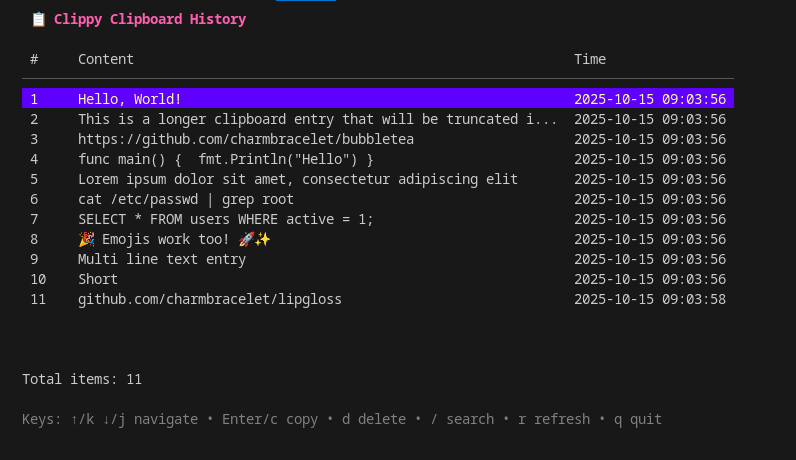
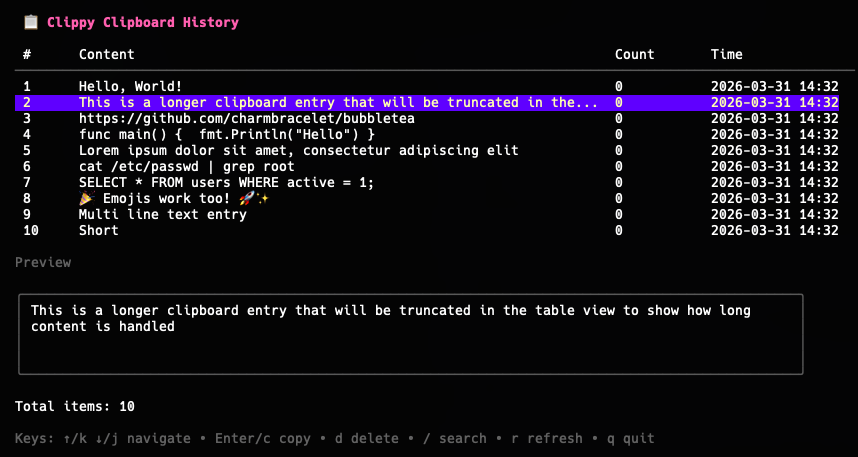
feat: implement in-memory history manager for clipboard

diff --git a/internal/history/history.go b/internal/history/history.go
@@ -41,6 +41,15 @@ func NewManager() (*Manager, error) {
 	return NewManagerWithPath(dbPath)
 }
 
+// NewInMemoryManager creates a history manager with no database backing.
+// Items are stored in memory only and are not persisted between runs.
+func NewInMemoryManager() *Manager {
+	return &Manager{
+		items:  make([]ClipboardHistory, 0),
+		hashes: make(map[string]struct{}),
+	}
+}
+
 // NewManagerWithPath creates a new history manager with a custom database path
 // This is useful for testing with isolated databases
 func NewManagerWithPath(dbPath string) (*Manager, error) {
@@ -66,23 +75,25 @@ func NewManagerWithPath(dbPath string) (*Manager, error) {
 
 // Close closes the database connection
 func (m *Manager) Close() error {
-	if m.dbClient != nil {
-		return m.dbClient.Close()
+	if m.dbClient == nil {
+		return nil
 	}
-	return nil
+	return m.dbClient.Close()
 }
 
 // AddItem adds a new clipboard item if it doesn't already exist
 func (m *Manager) AddItem(content string) bool {
 	item := newClipboardItem(content)
 	if !m.containsHash(item.Hash) {
-		entry := db.ClipboardEntry{
-			Content:   item.Item,
-			Hash:      item.Hash,
-			Timestamp: item.TimeStamp,
-		}
-		if err := m.dbClient.Insert(entry); err != nil {
-			return false
+		if m.dbClient != nil {
+			entry := db.ClipboardEntry{
+				Content:   item.Item,
+				Hash:      item.Hash,
+				Timestamp: item.TimeStamp,
+			}
+			if err := m.dbClient.Insert(entry); err != nil {
+				return false
+			}
 		}
 
 		m.items = append(m.items, item)
@@ -116,8 +127,10 @@ func (m *Manager) DeleteItem(index int) bool {
 	if index >= 0 && index < len(m.items) {
 		item := m.items[index]
 
-		if err := m.dbClient.Delete(item.Hash); err != nil {
-			return false
+		if m.dbClient != nil {
+			if err := m.dbClient.Delete(item.Hash); err != nil {
+				return false
+			}
 		}
 
 		delete(m.hashes, item.Hash)
@@ -134,6 +147,9 @@ func (m *Manager) Count() int {
 
 // LoadFromDB loads history from the SQLite database
 func (m *Manager) LoadFromDB() error {
+	if m.dbClient == nil {
+		return nil
+	}
 	entries, err := m.dbClient.LoadAll()
 	if err != nil {
 		return err
@@ -171,8 +187,10 @@ func newClipboardItem(content string) ClipboardHistory {
 func (m *Manager) IncrementItemCount(index int) error {
 	if index >= 0 && index < len(m.items) {
 		item := &m.items[index]
-		if err := m.dbClient.IncrementCount(item.Hash); err != nil {
-			return err
+		if m.dbClient != nil {
+			if err := m.dbClient.IncrementCount(item.Hash); err != nil {
+				return err
+			}
 		}
 		item.Count++
 		return nil

diff --git a/demo/main.go b/demo/main.go
@@ -9,16 +9,7 @@ import (
 )
 
 func main() {
-	// Create a temporary history manager
-	historyManager, err := history.NewManager()
-	if err != nil {
-		log.Fatal("Failed to create history manager:", err)
-	}
-	defer func() {
-		if err := historyManager.Close(); err != nil {
-			log.Printf("Failed to close history manager: %v", err)
-		}
-	}()
+	historyManager := history.NewInMemoryManager()
 
 	// Add some sample data to demonstrate the enhanced UI
 	sampleData := []string{
